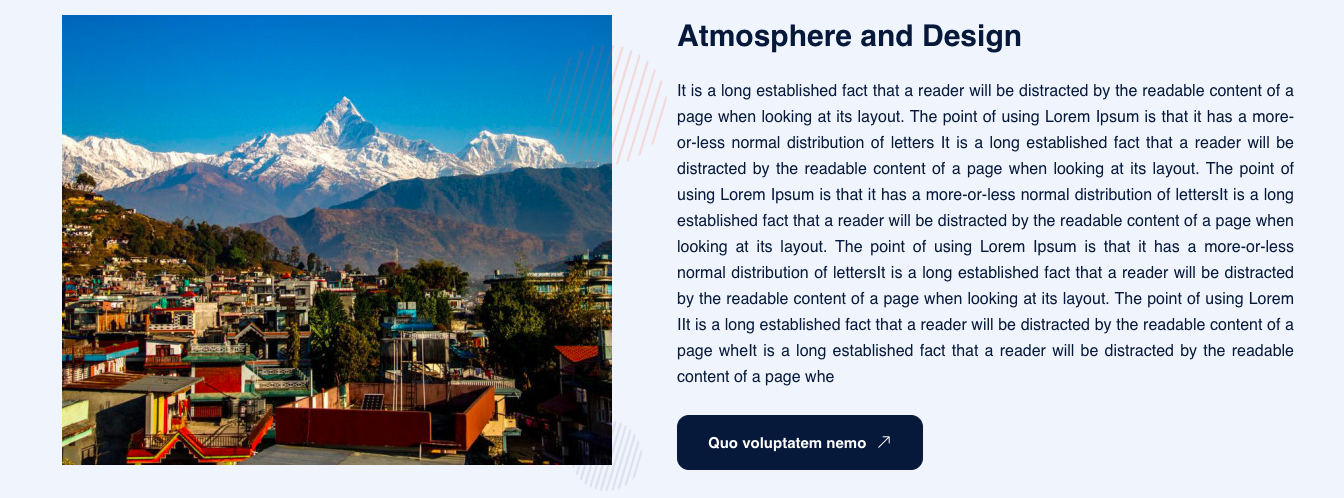
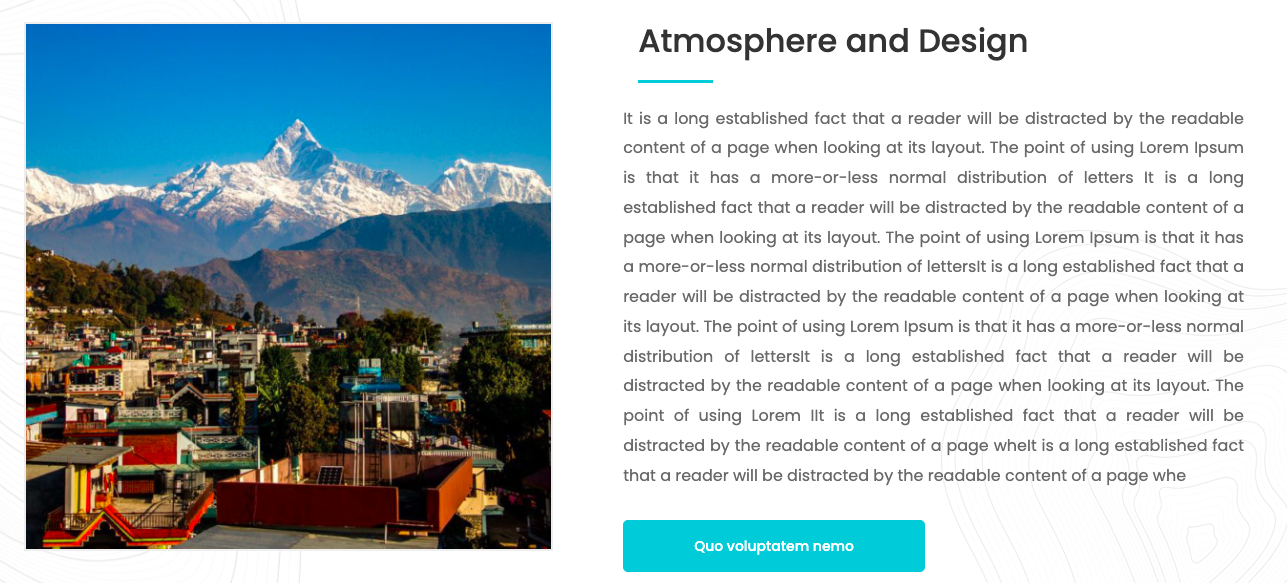
dynamic pages 2

diff --git a/public/assets/frontend/css/themes.css b/public/assets/frontend/css/themes.css
@@ -22780,6 +22780,10 @@ a.bg-hover-indigo:focus {
     margin: 0 auto
 }
 
+.mxw-840 {
+    max-width: 840px;
+    margin: 0 auto
+}
 .mxw-940 {
     max-width: 940px;
     margin: 0 auto

diff --git a/resources/views/backend/page/includes/page_section.blade.php b/resources/views/backend/page/includes/page_section.blade.php
@@ -74,23 +74,23 @@
 
                     </div>
                 </div>
-                <div class="card shadow-none">
-                    <div class="card-header">
-                        <h5 class="card-title text-primary mb-0">Map and Description </h5>
-                    </div>
-                    <div class="card-body">
-                        <div class="row">
-                            <div class="col-md-12">
-                                <label class="image-checkbox {{ $page_method == 'edit' ? (in_array('map_description', $data['section_slug']) ? "image-checkbox-checked":"") : ''}}">
-                                    <img class="img-responsive" src="{{asset('assets/backend/images/pages/sections/map_description.png')}}" width="100%"/>
-                                    <input type="checkbox" name="section[]" value="map_description" id="map_description.png" {{ $page_method == 'edit' ? (in_array('map_description', $data['section_slug']) ? "checked":"") : ''}} />
-                                    <i class="ri ri-check-line hidden"></i>
-                                </label>
-                            </div>
-                        </div>
+{{--                <div class="card shadow-none">--}}
+{{--                    <div class="card-header">--}}
+{{--                        <h5 class="card-title text-primary mb-0">Map and Description </h5>--}}
+{{--                    </div>--}}
+{{--                    <div class="card-body">--}}
+{{--                        <div class="row">--}}
+{{--                            <div class="col-md-12">--}}
+{{--                                <label class="image-checkbox {{ $page_method == 'edit' ? (in_array('map_description', $data['section_slug']) ? "image-checkbox-checked":"") : ''}}">--}}
+{{--                                    <img class="img-responsive" src="{{asset('assets/backend/images/pages/sections/map_description.png')}}" width="100%"/>--}}
+{{--                                    <input type="checkbox" name="section[]" value="map_description" id="map_description.png" {{ $page_method == 'edit' ? (in_array('map_description', $data['section_slug']) ? "checked":"") : ''}} />--}}
+{{--                                    <i class="ri ri-check-line hidden"></i>--}}
+{{--                                </label>--}}
+{{--                            </div>--}}
+{{--                        </div>--}}
 
-                    </div>
-                </div>
+{{--                    </div>--}}
+{{--                </div>--}}
 
                 <div class="card shadow-none">
                     <div class="card-header">
@@ -117,33 +117,33 @@
                 </div>
 
 
-                <div class="card shadow-none">
-                    <div class="card-header">
-                        <h5 class="card-title text-primary mb-0">Gallery Section</h5>
-                    </div>
-                    <div class="card-body">
-                        <div class="row">
-                            <div class="col-md-12">
-                                <div class="form-group">
-                                    {!! Form::label('gallery_title', 'Title', ['class' => 'form-label']) !!}
-                                    {!! Form::text('gallery_title', $page_method == 'edit' ?  ($data['gallery'] ? $data['gallery']->list_number_1:null):null,['class'=>'form-control','id'=>'gallery_title','placeholder'=>'Gallery Subtitle']) !!}
-                                </div>
-                                <div class="form-group mt-2">
-                                    {!! Form::label('gallery_subtitle', 'Subtitle', ['class' => 'form-label']) !!}
-                                    {!! Form::text('gallery_subtitle', $page_method == 'edit' ?  ($data['gallery'] ? $data['gallery']->list_number_2:null):null,['class'=>'form-control','id'=>'gallery_subtitle','placeholder'=>'Gallery Subtitle']) !!}
-                                </div>
-                            </div>
-                            <div class="col-md-12 mt-2">
-                                <label class="image-checkbox {{ $page_method == 'edit' ? (in_array('gallery', $data['section_slug']) ? "image-checkbox-checked":"") : ''}}">
-                                    <img class="img-responsive" src="{{asset('assets/backend/images/pages/sections/gallery.png')}}" width="100%"/>
-                                    <input type="checkbox" name="section[]" value="gallery" id="gallery.png" {{ $page_method == 'edit' ? (in_array('gallery', $data['section_slug']) ? "checked":"") : ''}} />
-                                    <i class="ri ri-check-line hidden"></i>
-                                </label>
-                            </div>
-                        </div>
+{{--                <div class="card shadow-none">--}}
+{{--                    <div class="card-header">--}}
+{{--                        <h5 class="card-title text-primary mb-0">Gallery Section</h5>--}}
+{{--                    </div>--}}
+{{--                    <div class="card-body">--}}
+{{--                        <div class="row">--}}
+{{--                            <div class="col-md-12">--}}
+{{--                                <div class="form-group">--}}
+{{--                                    {!! Form::label('gallery_title', 'Title', ['class' => 'form-label']) !!}--}}
+{{--                                    {!! Form::text('gallery_title', $page_method == 'edit' ?  ($data['gallery'] ? $data['gallery']->list_number_1:null):null,['class'=>'form-control','id'=>'gallery_title','placeholder'=>'Gallery Subtitle']) !!}--}}
+{{--                                </div>--}}
+{{--                                <div class="form-group mt-2">--}}
+{{--                                    {!! Form::label('gallery_subtitle', 'Subtitle', ['class' => 'form-label']) !!}--}}
+{{--                                    {!! Form::text('gallery_subtitle', $page_method == 'edit' ?  ($data['gallery'] ? $data['gallery']->list_number_2:null):null,['class'=>'form-control','id'=>'gallery_subtitle','placeholder'=>'Gallery Subtitle']) !!}--}}
+{{--                                </div>--}}
+{{--                            </div>--}}
+{{--                            <div class="col-md-12 mt-2">--}}
+{{--                                <label class="image-checkbox {{ $page_method == 'edit' ? (in_array('gallery', $data['section_slug']) ? "image-checkbox-checked":"") : ''}}">--}}
+{{--                                    <img class="img-responsive" src="{{asset('assets/backend/images/pages/sections/gallery.png')}}" width="100%"/>--}}
+{{--                                    <input type="checkbox" name="section[]" value="gallery" id="gallery.png" {{ $page_method == 'edit' ? (in_array('gallery', $data['section_slug']) ? "checked":"") : ''}} />--}}
+{{--                                    <i class="ri ri-check-line hidden"></i>--}}
+{{--                                </label>--}}
+{{--                            </div>--}}
+{{--                        </div>--}}
 
-                    </div>
-                </div>
+{{--                    </div>--}}
+{{--                </div>--}}
 
             </div>
         </div>

diff --git a/resources/views/frontend/page/includes/faq.blade.php b/resources/views/frontend/page/includes/faq.blade.php
@@ -1,28 +1,34 @@
-<section class="our-faq bgc-f8 mt60 pb60">
+
+
+<section class="pb-lg-13 bg-single-image-03 pt-11 pb-11" data-animated-id="5">
     <div class="container">
-        <div class="row wow fadeInUp" data-wow-delay="300ms">
-            <div class="col-lg-12">
-                <div class="ui-content">
-                    <h4 class="title">{{ $element->first()->title ?? '' }}</h4>
-                    <div class="accordion-style1 faq-page mb-4 mb-lg-5">
-                        <div class="accordion" id="accordionExample">
-                            @foreach($element as $index=>$row)
-                                <div class="accordion-item {{$loop->first ? 'active':''}}">
-                                    <h2 class="accordion-header" id="heading{{$index}}">
-                                        <button class="accordion-button collapsed" type="button" data-bs-toggle="collapse" data-bs-target="#collapse{{$index}}" aria-controls="collapse{{$index}}">
-                                            {{ $row->list_title ?? '' }}
-                                        </button>
-                                    </h2>
-                                    <div id="collapse{{$index}}" class="accordion-collapse collapse {{$loop->first ? 'show':''}}" aria-labelledby="heading{{$index}}" data-parent="#accordionExample">
-                                        <div class="accordion-body">
-                                            <p>{{ $row->list_description ?? '' }}</p>
-                                        </div>
-                                    </div>
-                                </div>
-                            @endforeach
+        <div class="row pb-3">
+            <div class="col-md-6">
+                <h2 class="text-heading">{{ $element->first()->title ?? '' }}</h2>
+                @if($element->first()->title)
+                    <span class="heading-divider"></span>
+                @endif
+            </div>
+        </div>
+        <div id="accordion-style-01" class="accordion accordion-01 row my-7 my-md-0 mx-3 mx-md-0">
+            <div class="col-md-12 pt-md-0 pt-6 pl-0">
+                @foreach($element as $index=>$row)
+                    <div class="card border-0 shadow-xxs-2 mb-6 rounded-top overflow-hidden">
+                        <div class="card-header border-0 p-0 rounded-top" id="heading_{{$index}}">
+                            <h5 class="mb-0">
+                                <button class="btn btn-link font-weight-500 pl-6 pr-7 py-3 fs-16 position-relative w-100 text-left rounded-0 {{$loop->first ? '':'collapsed'}}" data-toggle="collapse"
+                                        data-target="#collapse_{{$index}}" aria-expanded="true" aria-controls="collapse_{{$index}}">
+                                    {{ $row->list_title ?? '' }}
+                                </button>
+                            </h5>
+                        </div>
+                        <div id="collapse_{{$index}}" class="collapse {{$loop->first ? 'show':''}}" aria-labelledby="heading_{{$index}}" data-parent="#accordion-style-01" style="">
+                            <div class="card-body fs-15 lh-2 pl-6 pr-7 pb-6">
+                                {{ $row->list_description ?? '' }}
+                            </div>
                         </div>
                     </div>
-                </div>
+                @endforeach
             </div>
         </div>
     </div>

diff --git a/resources/views/frontend/page/includes/flash_card.blade.php b/resources/views/frontend/page/includes/flash_card.blade.php
@@ -1,37 +1,31 @@
-<section id="explore-property" class="mt60 pb90 pb30-md">
+<section class="bg-patten-03 bg-gray-01 pt-10 pb-13" data-animated-id="3">
     <div class="container">
-        <div class="row">
-            <div class="col-lg-6">
-                <div class="main-title2 wow fadeInUp" data-wow-delay="300ms" style="margin-bottom: 30px;">
-                    <h2 class="title">{{ $element->first()->title ?? '' }}</h2>
-                    <p class="paragraph">{{ $element->first()->subtitle ?? '' }}</p>
-                </div>
-            </div>
-        </div>
-        <div class="row">
-            <div class="col-lg-12">
-                <div class="row explore-apartment-slider navi_pagi_top_right my-flex-card wow fadeInUp" data-wow-delay="300ms">
-                    @foreach($element as $index=>$row)
-                        <div class="col-lg-4 item">
-                        <a>
-                            <div class="iconbox-style1">
-                                @if($index==0)
-                                    <span class="fa fa-font-awesome-flag"></span>
-                                @elseif($index==1)
-                                    <span class="fa fa-eye"></span>
-                                @else
-                                    <i class="icon flaticon-favourite"></i>
-                                @endif
-                                <div class="iconbox-content">
-                                    <h5 class="title">{{$row->list_title ?? ''}}</h5>
-                                    <p class="text mb-0 text-justify fz-16">{{$row->list_description ?? ''}}</p>
-                                </div>
-                            </div>
-                        </a>
+        <p class="letter-spacing-263 text-uppercase text-primary mb-2 font-weight-500 text-center">{{ $element->first()->subtitle ?? '' }}</p>
+        <h2 class="text-heading text-center">{{ $element->first()->title ?? '' }}</h2>
+        <span class="heading-divider mx-auto"></span>
+        <div class="row mt-8">
+            @foreach($element as $index=>$row)
+
+                <div class="col-md-4 mb-6 mb-lg-0">
+                    <div class="card shadow-2 px-7 pb-6 pt-4 h-100 border-0">
+                        <div class="card-img-top d-flex align-items-end justify-content-center">
+{{--                            @if($index==0)--}}
+{{--                                <span class="far fa-font-awesome-flag"></span>--}}
+{{--                            @elseif($index==1)--}}
+{{--                                <span class="far fa-eye"></span>--}}
+{{--                            @else--}}
+{{--                                <i class="icon flaticon-favourite"></i>--}}
+{{--                            @endif--}}
+                        </div>
+                        <div class="card-body px-0 pt-6 pb-0 text-center">
+                            <h4 class="card-title fs-18 lh-17 text-dark mb-2">{{$row->list_title ?? ''}}</h4>
+                            <p class="card-text px-2">
+                                {{$row->list_description ?? ''}}
+                            </p>
+                        </div>
                     </div>
-                    @endforeach
                 </div>
-            </div>
+            @endforeach
         </div>
     </div>
 </section>

diff --git a/resources/views/frontend/page/includes/basic_section.blade.php b/resources/views/frontend/page/includes/basic_section.blade.php
@@ -1,29 +1,27 @@
-<div class="cta-banner mx-auto maxw1600 pt10 bdrs12 position-relative mx20-lg px20-sm">
+<section class="pb-lg-13 bg-single-image-03 pt-11 pb-11" data-animated-id="5">
     <div class="container">
-        <div class="row align-items-start align-items-xl-center">
-            <div class="col-md-10 col-lg-7 col-xl-5">
-                <div class="position-relative mb0-sm wow fadeInRight" data-wow-delay="300ms">
-                    <img class="pt40 pl50" src="{{ asset(imagePath($element->first()->image)) }}" alt="">
-                    <div class="img-box-10 position-relative d-none d-xl-block">
-                        <img class="img-1 spin-right" src="{{ asset('assets/frontend/images/about/element-3.png') }}" alt="">
-                        <img class="img-2 bounce-x" src="{{ asset('assets/frontend/images/about/element-5.png') }}" alt="">
-                        <img class="img-3 bounce-y" src="{{ asset('assets/frontend/images/about/element-6.png') }}" alt="">
-                        <img class="img-4 bounce-y" src="{{ asset('assets/frontend/images/about/element-7.png') }}" alt="">
-                        <img class="img-5 spin-right" src="{{ asset('assets/frontend/images/about/element-8.png') }}" alt="">
-                    </div>
+        <div class="row no-gutters">
+            <div class="col-md-5 border border-2x mb-6 mb-md-0 h-100">
+                <div class="py-0">
+                    <img src="{{ asset(imagePath($element->first()->image)) }}" alt="">
                 </div>
             </div>
-            <div class="col-md-8 col-lg-5 col-xl-6 pt60 offset-xl-1">
-                <div class="about-box-1 pe-4 mt10 mt0-lg mb30-lg wow fadeInLeft main-title2" data-wow-delay="300ms" style="margin-bottom: 0px;">
-                    <h2 class="title mb20">{{ $element->first()->title ?? '' }}</h2>
-                    <div class="text mb25 mb10-md fz16 text-justify">
+            <div class="col-md-7 h-100">
+                <div class="pl-md-10 pr-md-8">
+                    <div class="col-md-9">
+                        <h2 class="text-heading">{{ $element->first()->title ?? '' }}</h2>
+                        <span class="heading-divider"></span>
+                    </div>
+                    <div class="mb-4 fs-16 custom-description">
                         {!! $element->first()->description ?? '' !!}
                     </div>
                     @if($element->first()->button_link)
-                        <a href="{{$element->first()->button_link}}" class="ud-btn btn-dark">{{ $element->first()->button ?? 'Explore more' }}<i class="fal fa-arrow-right-long"></i></a>
+                        <a href="{{$element->first()->button_link}}" class="btn btn-lg btn-primary mt-2 px-10">
+                            {{ $element->first()->button ?? 'Explore more' }}
+                        </a>
                     @endif
                 </div>
             </div>
         </div>
     </div>
-</div>
+</section>

diff --git a/resources/views/frontend/page/includes/call_to_action.blade.php b/resources/views/frontend/page/includes/call_to_action.blade.php
@@ -1,17 +1,13 @@
-<section class="cta-banner4 mt60 d-flex align-items-center" style="background-image: url({{ asset('assets/frontend/images/background/bread-bg8.jpeg') }})">
+<section class="pt-11 pb-13 bg-cover bg-white-overlay" style="background-image:linear-gradient(360deg, rgba(24, 26, 48, 0) 0%, #3a3b3e 100%),url({{ asset('assets/frontend/images/bread-bg8.jpeg') }})" data-animated-id="9">
     <div class="container">
-        <div class="row">
-            <div class="col-xl-10 mx-auto wow fadeInUp" data-wow-delay="300ms">
-                <div class="cta-style4 position-relative text-center">
-                    <h6 class="sub-title fw400 text-white">{{ $element->first()->subtitle ?? '' }}</h6>
-                    <h1 class="cta-title mb30 text-white">{{ $element->first()->title ?? '' }}</h1>
-                    @if($element->first()->button_link)
-                        <div class="d-block d-sm-flex justify-content-center">
-                            <a href="http://localhost:8000/activity" class="ud-btn btn-white">Our Activity <i class="fal fa-arrow-right-long"></i></a>
-                        </div>
-                    @endif
-                </div>
-            </div>
-        </div>
+        <form class="text-center fadeInUp animated" data-animate="fadeInUp">
+            <p class="text-primary font-weight-500 letter-spacing-263 text-center text-uppercase mb-3">{{ $element->first()->subtitle ?? '' }}</p>
+            <h2 class="fs-34 font-weight-normal lh-141 text-white mxw-840">
+                {{ $element->first()->title ?? '' }}
+            </h2>
+            @if($element->first()->button_link)
+                <a href="{{ $element->first()->button_link }}"  class="btn btn-lg btn-primary mt-2 px-10">{{ $element->first()->button ?? 'Learn More' }}<i class="fal fa-arrow-right-long"></i></a>
+            @endif
+        </form>
     </div>
 </section>

diff --git a/resources/views/frontend/activity/includes/search_breadcrumb.blade.php b/resources/views/frontend/activity/includes/search_breadcrumb.blade.php
@@ -6,15 +6,15 @@
                 <li class="breadcrumb-item text-white"><a href="/">Home</a></li>
                 @if($page_method !== 'index')
                     <li class="breadcrumb-item text-white"><a href="{{route($base_route.'index')}}">{{ $panel }}</a></li>
-                    <li class="breadcrumb-item active text-white" aria-current="page">{{ $data['category']->title }}</li>
+                    <li class="breadcrumb-item active text-white" aria-current="page"> {{ $page_title }}</li>
                 @else
-                    <li class="breadcrumb-item active text-white" aria-current="page">{{ $data['category']->title }}</li>
+                    <li class="breadcrumb-item active text-white" aria-current="page"> {{ $page_title }}</li>
                 @endif
 
             </ol>
         </nav>
         <h1 class="fs-32 mb-0 text-white font-weight-600 text-center pt-11 mb-5 lh-17 mxw-478" data-animate="fadeInDown">
-            {{ $panel }} </h1>
+            {{ $page_title }} </h1>
     </div>
 </section>
 

diff --git a/resources/views/frontend/page/includes/header_description.blade.php b/resources/views/frontend/page/includes/header_description.blade.php
@@ -1,14 +1,16 @@
-<div class="container">
-    <div class="roww wow fadeInUp" data-wow-delay="500ms">
-        <div class="col-xl-12">
-            @if($element->first()->subtitle)
-                <h2 class="blog-title">
+<section class="pb-12" data-animated-id="2">
+    <div class="container">
+        <div class="row ml-xl-0 mr-xl-n6">
+            <div class="col-lg-12 mb-6 mb-lg-0 pr-xl-6 pl-xl-0">
+                @if($element->first()->subtitle)
+                <h3 class="fs-md-32 text-heading lh-141 mb-2">
                     {{$element->first()->subtitle ?? '' }}
-                </h2>
-            @endif
-            <div class="ui-content mt40 mb60 text-justify custom-description">
-                {!! $element->first()->description ?? '' !!}
+                </h3>
+                @endif
+                <div class="lh-214 mb-9 custom-description">
+                    {!! $element->first()->description ?? '' !!}
+                </div>
             </div>
         </div>
     </div>
-</div>
+</section>

diff --git a/app/Http/Controllers/Backend/Page/PageSectionElementController.php b/app/Http/Controllers/Backend/Page/PageSectionElementController.php
@@ -95,7 +95,7 @@ class PageSectionElementController extends BackendBaseController
         DB::beginTransaction();
         try {
             if($request->hasFile('image_input')){
-                $image_name = $this->updateImage($request->file('image_input'),$data['row']->image,'550','450');
+                $image_name = $this->updateImage($request->file('image_input'),$data['row']->image,'550','550');
                 $request->request->add(['image'=>$image_name]);
             }
             $request->request->add(['status' => true ]);
